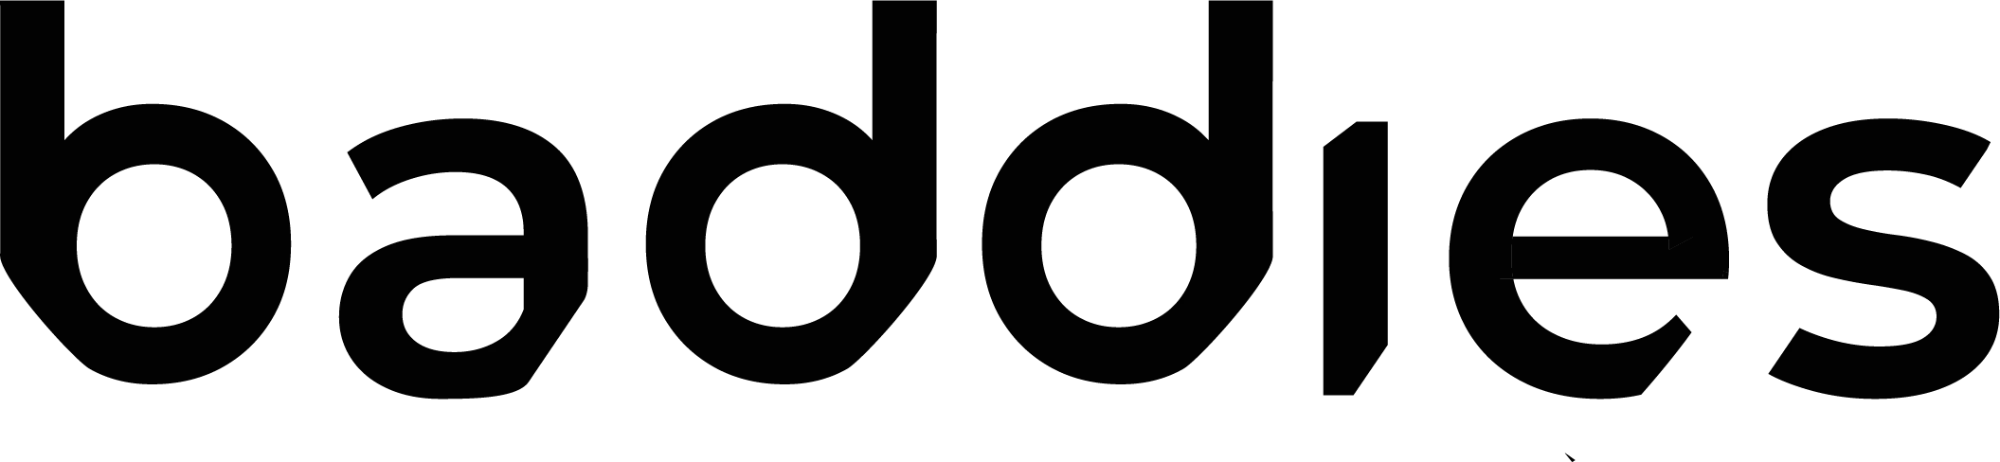
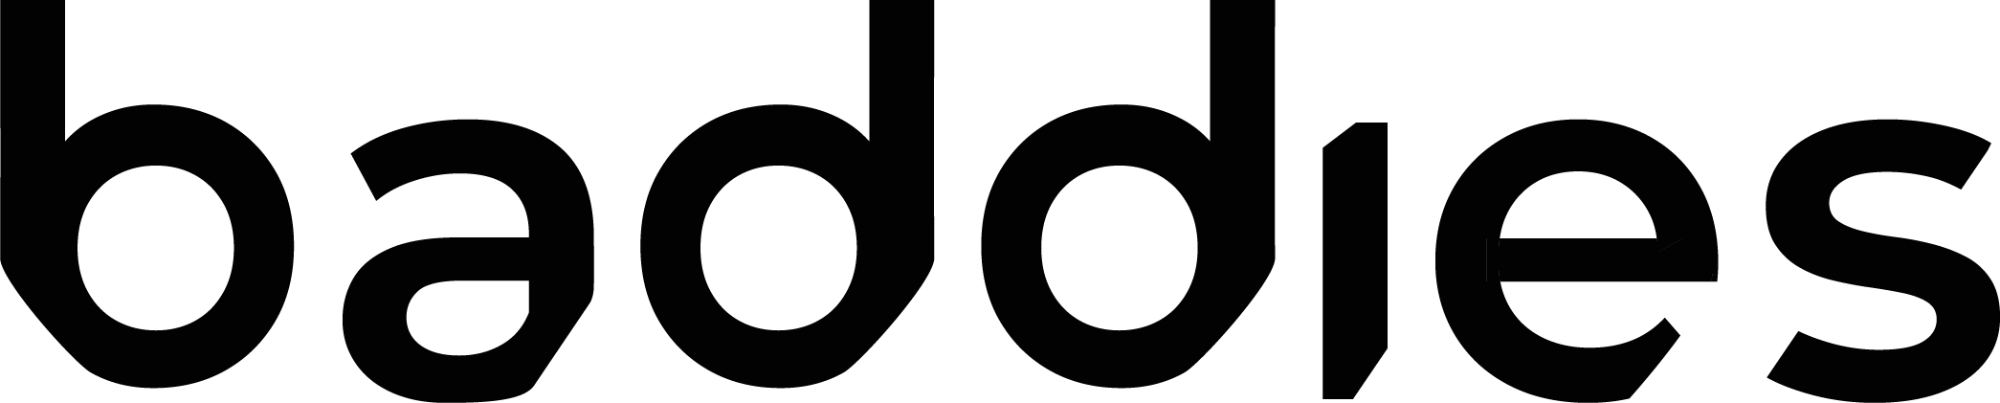
New baddies wordmark (white + black)
Replaces both wordmark files with the updated logo (2000x403, was
2000x462) and updates every next/image width/height that reserves its
aspect ratio (nav, homepage hero, empty-content state) plus the admin
wipe-test-content logo dimensions, so there's no layout shift or
squashing.

Also fixes a strict-mode typecheck error in the VIP Pass package price
test (possibly-undefined curve lookup).

diff --git a/src/components/ui.tsx b/src/components/ui.tsx
@@ -212,7 +212,7 @@ export function Nav() {
             converting to next/image (a genuinely static, non-expiring
             file, unlike signed avatar/cover URLs). Above-the-fold on
             every page, so `priority` here too. */}
-        <NextImage src="/baddies-wordmark-white.webp" alt="baddies" width={2000} height={462} priority style={brandLogoStyle} />
+        <NextImage src="/baddies-wordmark-white.webp" alt="baddies" width={2000} height={403} priority style={brandLogoStyle} />
       </Link>
 
       <div className="nav-links-desktop" style={navCenterLinksStyle}>
@@ -1567,7 +1567,7 @@ export function EmptyContentState({ message }: { message: string }) {
         alt=""
         aria-hidden="true"
         width={2000}
-        height={462}
+        height={403}
         style={emptyContentLogoStyle}
       />
       <p style={{ color: "var(--text-muted)", margin: 0 }}>{message}</p>

diff --git a/src/app/landing-page.tsx b/src/app/landing-page.tsx
@@ -76,10 +76,10 @@ export default function LandingPage() {
                 non-expiring image asset used site-wide (unlike avatar/
                 cover URLs, which are signed and re-signed per read —
                 see this project's SEO plan for why those stay plain
-                <img>) — real dimensions (2000x462) let next/image
+                <img>) — real dimensions (2000x403) let next/image
                 reserve the correct aspect ratio and avoid any CLS,
                 while `style` still governs the actual rendered size. */}
-            <Image src="/baddies-wordmark-white.webp" alt="baddies" width={2000} height={462} priority style={heroLogoStyle} />
+            <Image src="/baddies-wordmark-white.webp" alt="baddies" width={2000} height={403} priority style={heroLogoStyle} />
           </motion.h1>
           <motion.p
             style={heroSubStyle}

diff --git a/tests/unit/creator-pricing.test.ts b/tests/unit/creator-pricing.test.ts
@@ -25,7 +25,7 @@ describe("pricing", () => {
     const curve: Record<string, number> = JSON.parse(
       DEFAULT_BUSINESS_CONFIG[BUSINESS_CONFIG_KEYS.PRICING_VIP_PASS_DISCOUNT_CURVE]
     );
-    const prices = VIP_PASS_DURATIONS_MONTHS.map((m) => Math.round(base * m * (1 - curve[String(m)]) * 100) / 100);
+    const prices = VIP_PASS_DURATIONS_MONTHS.map((m) => Math.round(base * m * (1 - (curve[String(m)] ?? 0)) * 100) / 100);
     expect(prices).toEqual([13.5, 24, 42]);
   });
 });

diff --git a/src/app/api/admin/system/wipe-test-content/route.ts b/src/app/api/admin/system/wipe-test-content/route.ts
@@ -27,7 +27,7 @@ const LOGO_CONTENT_TYPE = "image/webp";
 // MediaAsset row so its stored metadata stays accurate, not just its
 // bytes.
 const LOGO_WIDTH = 2000;
-const LOGO_HEIGHT = 462;
+const LOGO_HEIGHT = 403;
 
 /**
  * Overwrites the stored image bytes of every IMAGE-type Content post
